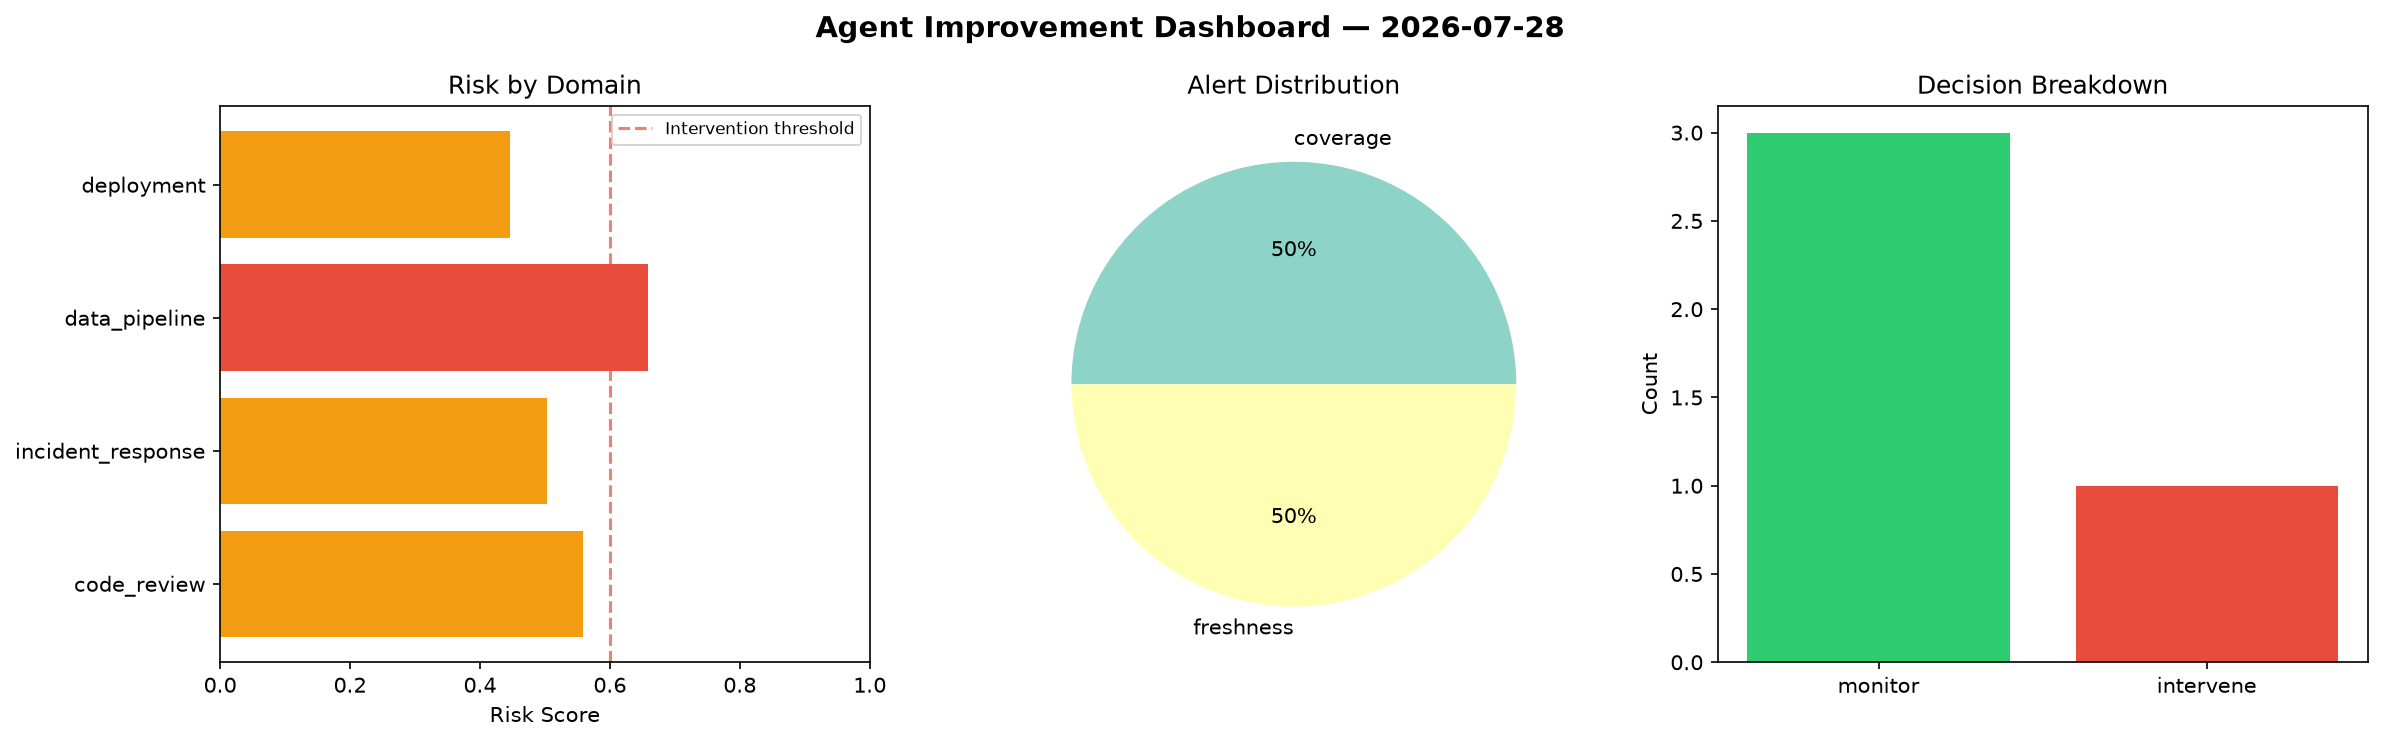
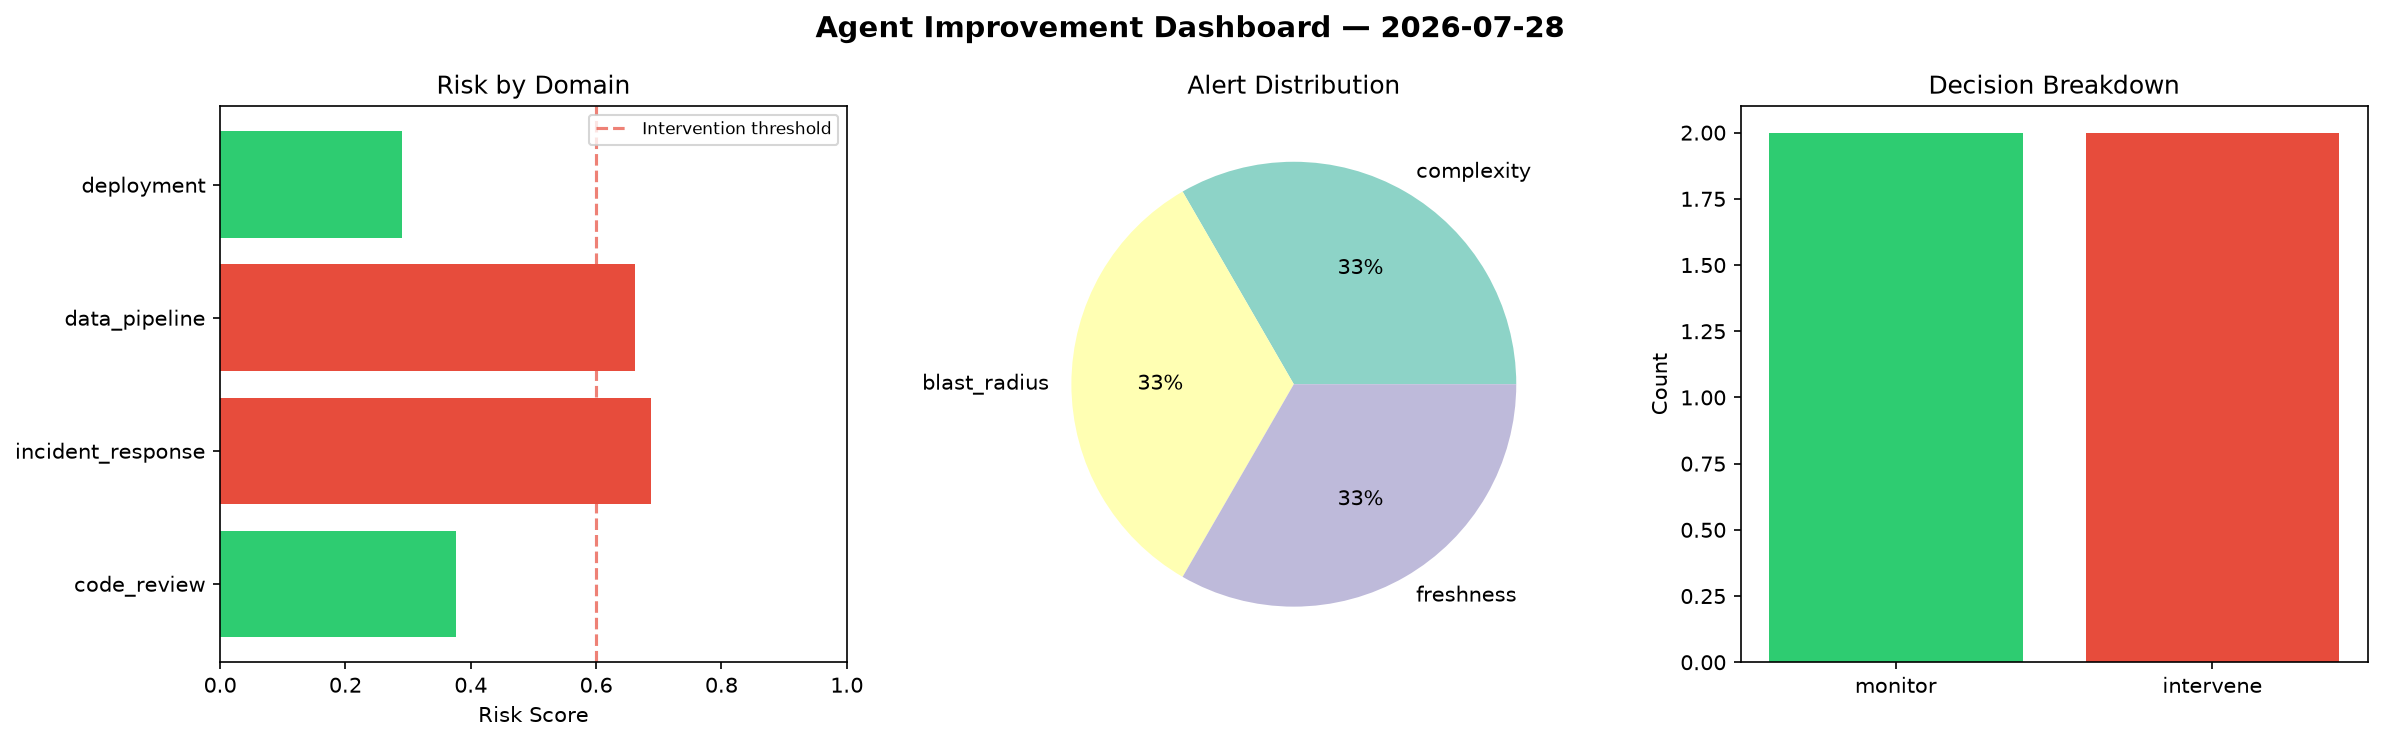
agent-improvement: daily cycle 2026-07-28T21:21

diff --git a/logs/2026-07-28.md b/logs/2026-07-28.md
@@ -1,6 +1,6 @@
 # Agent Improvement Report — 2026-07-28
 
-**Cycle ID:** `751e9a8f` | **Avg Risk:** 0.5416 | **Interventions:** 1/4
+**Cycle ID:** `16d627fc` | **Avg Risk:** 0.5039 | **Interventions:** 2/4
 
 ![Dashboard](2026-07-28_dashboard.png)
 
@@ -10,18 +10,18 @@
 
 | Domain | Risk Score | Decision | Alerts |
 |--------|-----------|----------|--------|
-| code_review | 0.5589 | monitor | coverage |
-| incident_response | 0.5028 | monitor | none |
-| data_pipeline | 0.6581 | intervene | freshness |
-| deployment | 0.4467 | monitor | none |
+| code_review | 0.3756 | monitor | complexity |
+| incident_response | 0.6882 | intervene | blast_radius |
+| data_pipeline | 0.6615 | intervene | freshness |
+| deployment | 0.2903 | monitor | none |
 
 ## Delta vs Yesterday
 
 | Domain | Today | Yesterday | Change |
 |--------|-------|-----------|--------|
-| code_review | 0.5589 | 0.5751 | 📉 -2.8% |
-| incident_response | 0.5028 | 0.4472 | 📈 12.4% |
-| data_pipeline | 0.6581 | 0.7277 | 📉 -9.6% |
-| deployment | 0.4467 | 0.4152 | 📈 7.6% |
+| code_review | 0.3756 | 0.5751 | 📉 -34.7% |
+| incident_response | 0.6882 | 0.4472 | 📈 53.9% |
+| data_pipeline | 0.6615 | 0.7277 | 📉 -9.1% |
+| deployment | 0.2903 | 0.4152 | 📉 -30.1% |
 
 **Refinement:** `{'adjustment': 'maintain', 'trend': 'improving', 'window': 4}`
